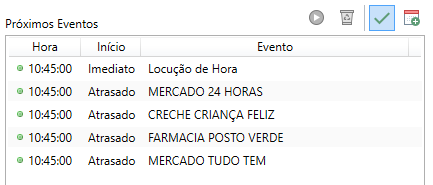
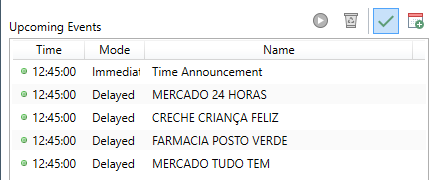
Seção 'Scheduling Advertisements'

Changed region(s): [[0.0, 0.0, 0.9908, 1.0]]

diff --git a/Docs/Getting Started.md b/Docs/Getting Started.md
@@ -118,45 +118,45 @@ After that, we just need to set the **Event Type**. For time announcements, we s
 
 Finally, as we want the events to play every 15 minutes, we just need to copy and paste the original event and change the time accordingly.
 
-## Agendando os anúncios
+## Scheduling Advertisements
 
-Vamos então agendar alguns anúncios para demonstrar. Para que a animação seja breve, vamos programar todos apenas para disparar no bloco dos 45 minutos. 
+Now, let's schedule some ads. To make the animation brief, we will schedule all of them to fire on the 45-minute block.
 
-Se você deseja que seus anúncios disparem em outros minutos, basta então copiar e colar, assim como fizemos com as Locuções de Hora.
+If you want your ads to fire in other minutes, then just copy and paste, just like we did with Time Announcements.
 
 <p align="center">
 	<img src="Images/SchedulingAds.webp" alt="Agendando Anúncios"/>
 </p>
 
-As diferenças de um agendamento para outro são poucas. Para agendar os anúncios, nós apenas não marcamos a caixa **Imediato**, já que os anúncios não devem cortar as músicas, nem um anúncio cortar o outro. O bloco será disparado pela **Locução de Hora**, esta sim que terá seu disparo no modo imediato.
+Here we didn't check the **Immediate** box, as the ads must not cut the music, nor should one ad cut the other. The block will be triggered by the **Time Announcement**, which will start immediatelly, with the ads following after.
 
-Também diferente da Locução de Hora, para arquivos de áudio temos que obrigatoriamente selecionar o arquivo que será reproduzido pelo player.
+Other difference from the Time Annoucement, is that for Audio Files we have to choose the file that will be played by the player.
 
-Você deve notar que a Planilha de Próximos Eventos deve ficar da seguinte forma, ou parecida:
+Your Upcoming Events list should look like this, or similar:
 
 <p align="center">
 	<img src="Images/UpcomingEventOrder1.png" alt="Próximos Eventos - Sem Ordenação"/>
 </p>
 
-### Customizando a Ordem dos Eventos
+### Setting event order on Upcoming Events queue
 
-Algo que pode acontecer em diversas rádios é ter anunciantes do mesmo segmento, em nosso exemplo, os dois mercados, e não é interessante anunciar eles um atrás do outro. Para evitar isso, podemos utilizar a opção **Ordem do Evento na Fila**. 
+Something that can happen in your radio station is to have advertisers from the same segment, in our example, two markets (*mercado*), and playing them one after the other may not be the best practice. To avoid this, we can use the **Queue order** option.
 
-A ordem do evento é um número que varia de **0 a 99**, com todos os eventos iniciando em **50**. Para eventos que compartilham o mesmo horário, neste caso 10:45:00, esta é uma opção para customizar a ordem deles de acordo com a sua vontade. Podemos então pegar um dos mercados, neste caso o **Mercado 24 Horas** e modificar este valor.
+The queue order is a number ranging from **0 to 99**, with all events starting at **50**. For events that share the same time, in this case 12:45:00, this is an option to customize their order according to your wishes. We can then take one of the markets, in this case the **Mercado 24 Horas** and modify this value.
 
 <p align="center">
 	<img src="Images/EventWindow_Order.png" alt="Ordenação do Evento"/>
 </p>
 
- Como os dois mercados estão na posição inferior na grade, devemos então mudar um deles para qualquer número menor que 50, neste caso 49, e confirmar. Assim, "puxamos" o anúncio para o topo do bloco, se fosse o contrário, colocariamos um número maior que 50, "empurrando" o anúncio para baixo.
+As both markets are at the bottom of the list, we must then change one of them to any number less than 50, in this case 49, and confirm. Thus, we "pull" the ad to the top of the block, otherwise we would place a number greater than 50, "pushing" the ad down.
 
-Após essa alteração, os eventos então serão reposicionados na fila de Próximos Eventos, ficando desta forma:
+After this change, the events will then be repositioned in the Upcoming Events queue, looking like this:
 
 <p align="center">
 	<img src="Images/UpcomingEventOrder2.png" alt="Próximos Eventos - Pós Ordenação"/>
 </p>
 
-Assim conseguimos evitar que anúncios de concorrentes sejam anunciados um seguidos do outro, com um maior controle do nosso bloco de anunciantes.
+In this way, we are able to prevent competitors' ads from being announced one after the other, with greater control of our block of advertisers.
 
 # Agendar um bloco de anúncios com playlist sequencial
 
